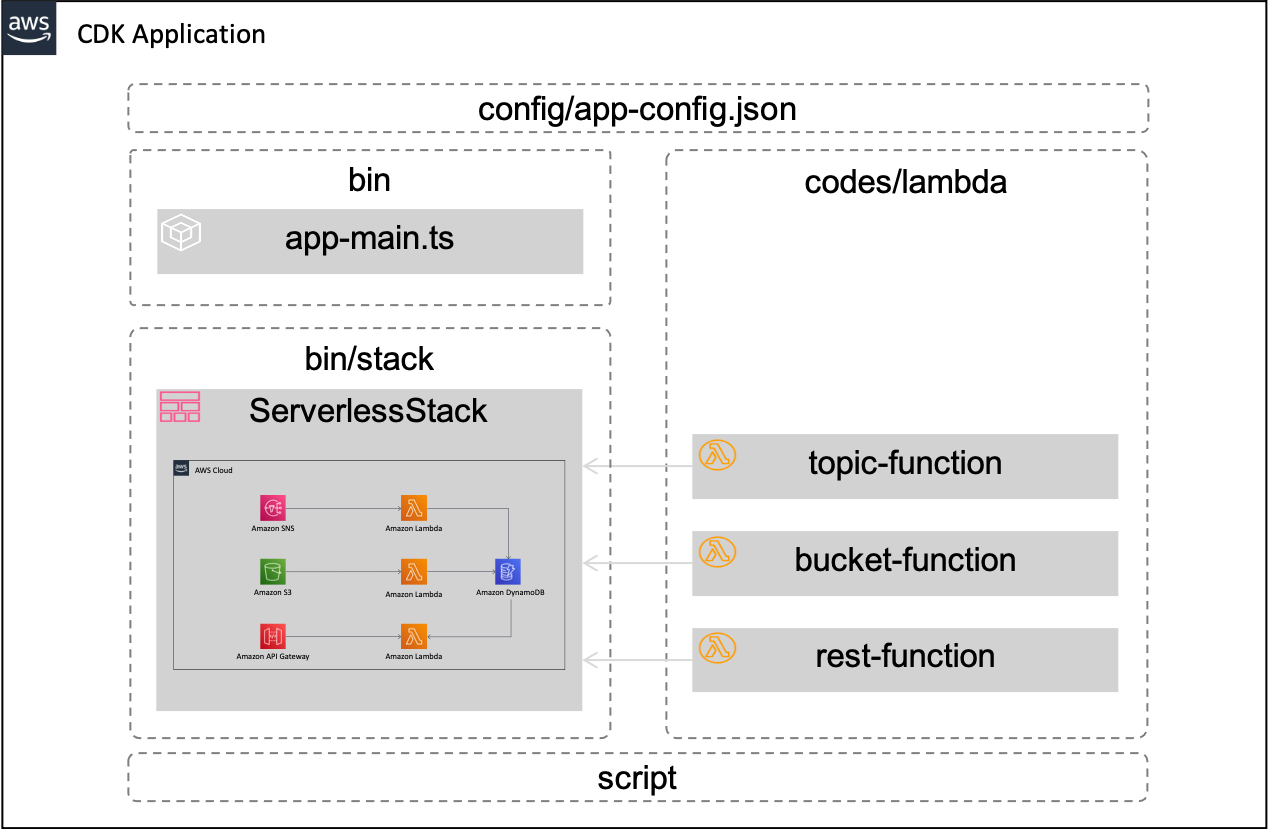
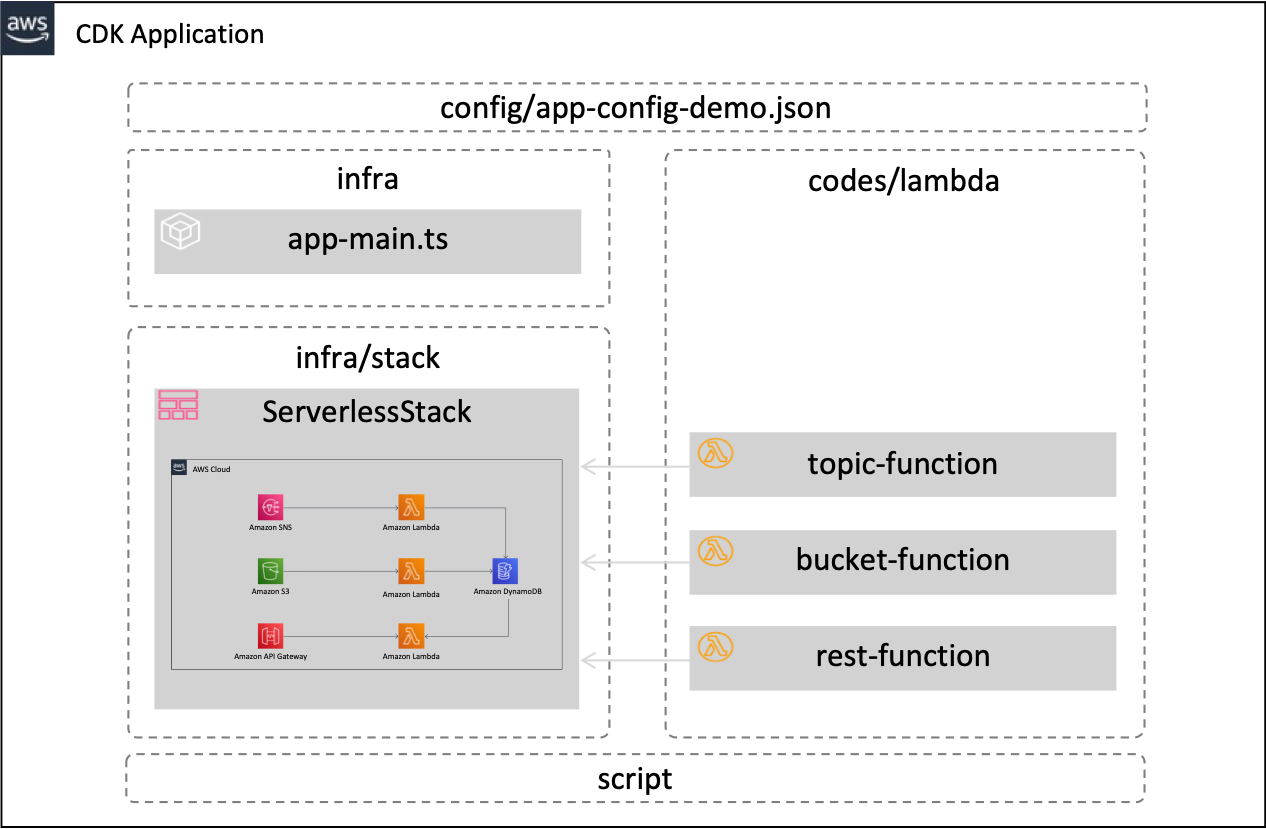
Update docs

diff --git a/infra/app-main.ts b/infra/app-main.ts
@@ -5,7 +5,7 @@ import { ServerlessStack } from './stack/serverless-stack';
 
 import { loadConfig } from '../lib/utils/config-loaders';
 
-let appConfig: any = loadConfig('config/app-config.json');
+let appConfig: any = loadConfig('config/app-config-demo.json');
 const stackProps: cdk.StackProps = { 
     env: {
         account: appConfig.Project.Account,

diff --git a/README.md b/README.md
@@ -1,6 +1,10 @@
 # AWS Serverless using AWS CDK
 
-This repository provides the basic patterns of [AWS Serverless](https://aws.amazon.com/serverless) using [AWS CDK](https://aws.amazon.com/cdk).
+This repository describes how to implement basic patterns of [AWS Serverless](https://aws.amazon.com/serverless) using [AWS CDK](https://aws.amazon.com/cdk). AWS CDK is a great tool for serverless applications because it helps you manage multiple serverless resources in one place.
+
+Korean practice guide and demo is provided through the following video: [AWS DevAxConnect - AWS Serverless service development with AWS CDK](https://www.twitch.tv/videos/1070023684?collection=4wZXJvncHRaoEg).
+
+This project was implemented based on [AWS CDK Project Template for DevOps](https://github.com/aws-samples/aws-cdk-project-template-for-devops) for more fluent DevOps application.
 
 Other "Using AWS CDK" series can be found in:
 
